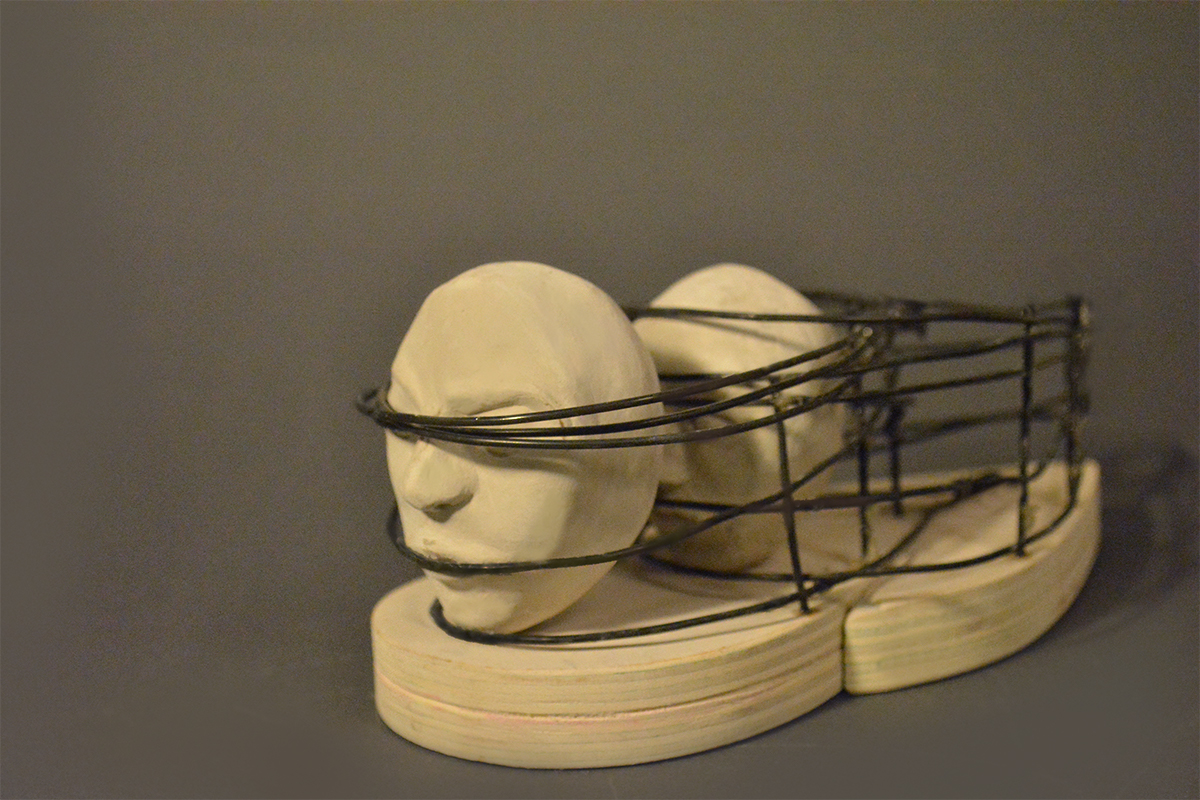
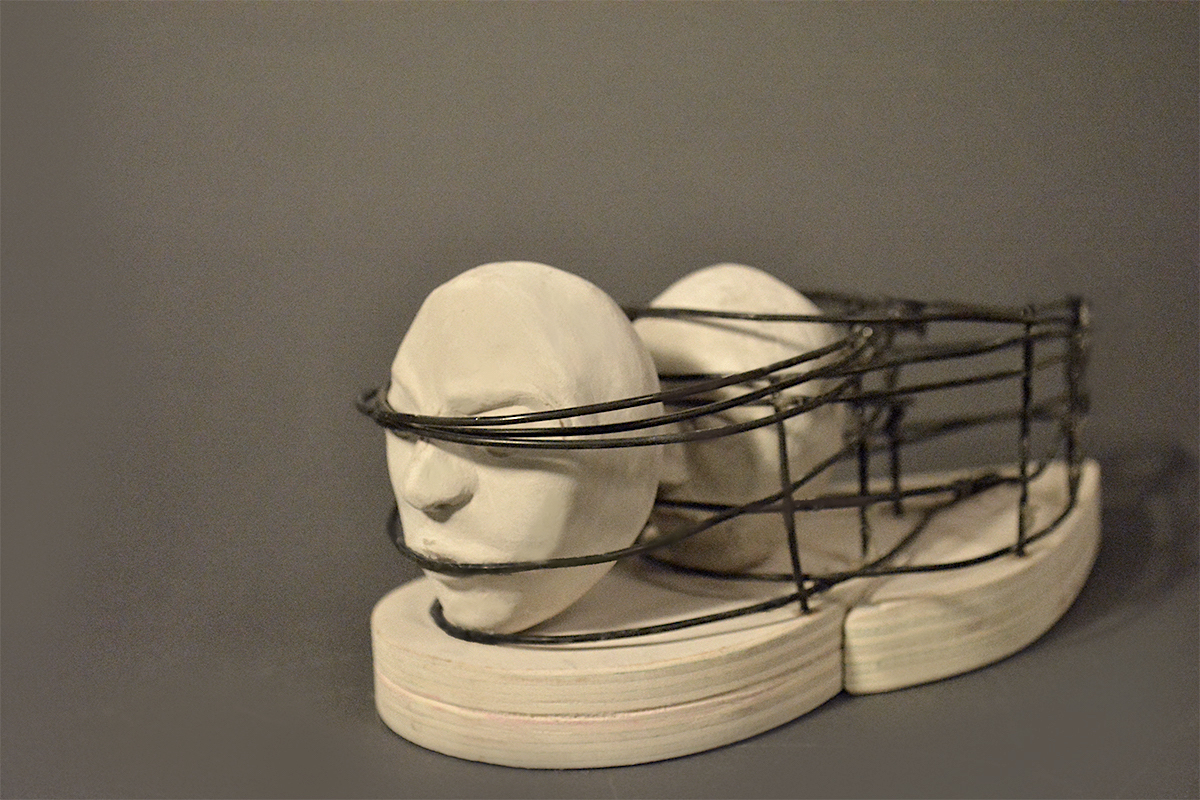
changed cover photos

Changed region(s): [[0.3083, 0.3125, 0.925, 0.9688]]

diff --git a/Monsterrat-HTML/index.html b/Monsterrat-HTML/index.html
@@ -138,7 +138,7 @@
           <!-- Portfolio Item -->
           <li class="item col-md-3 no-padding  photo">
             <!-- Image -->
-            <img class="img-responsive" src="images/productDesign/bello/belloCover.png" alt="" >
+            <img class="img-responsive" src="images/productDesign/bello/covers.jpg" alt="" >
             <!-- Hover Section -->
             <div class="hover-sec">
               <!-- Hover Link -->
@@ -150,7 +150,7 @@
           <!-- Portfolio Item -->
           <li class="item col-md-3 no-padding brand web photo product">
             <!-- Image -->
-            <img class="img-responsive" src="images/productDesign/acornAmplifier/acornCover.jpg" alt="" >
+            <img class="img-responsive" src="images/productDesign/acornAmplifier/covers3.jpg" alt="" >
             <!-- Hover Section -->
             <div class="hover-sec">
               <!-- Hover Link -->
@@ -162,7 +162,7 @@
           <!-- Portfolio Item -->
           <li class="item col-md-3 no-padding photo product">
             <!-- Image -->
-            <img class="img-responsive" src="images/sculpture/restrainedLove/sculpt1.jpg" alt="" >
+            <img class="img-responsive" src="images/sculpture/restrainedLove/covers1.jpg" alt="" >
             <!-- Hover Section -->
             <div class="hover-sec">
               <!-- Hover Link -->
@@ -175,7 +175,7 @@
           <!-- Portfolio Item -->
           <li class="item col-md-3 no-padding web photo ">
             <!-- Image -->
-            <img class="img-responsive" src="images/productDesign/mickeyMouse/mickeyCover.jpg" alt="" >
+            <img class="img-responsive" src="images/productDesign/mickeyMouse/covers2.jpg" alt="" >
             <!-- Hover Section -->
             <div class="hover-sec">
               <!-- Hover Link -->
